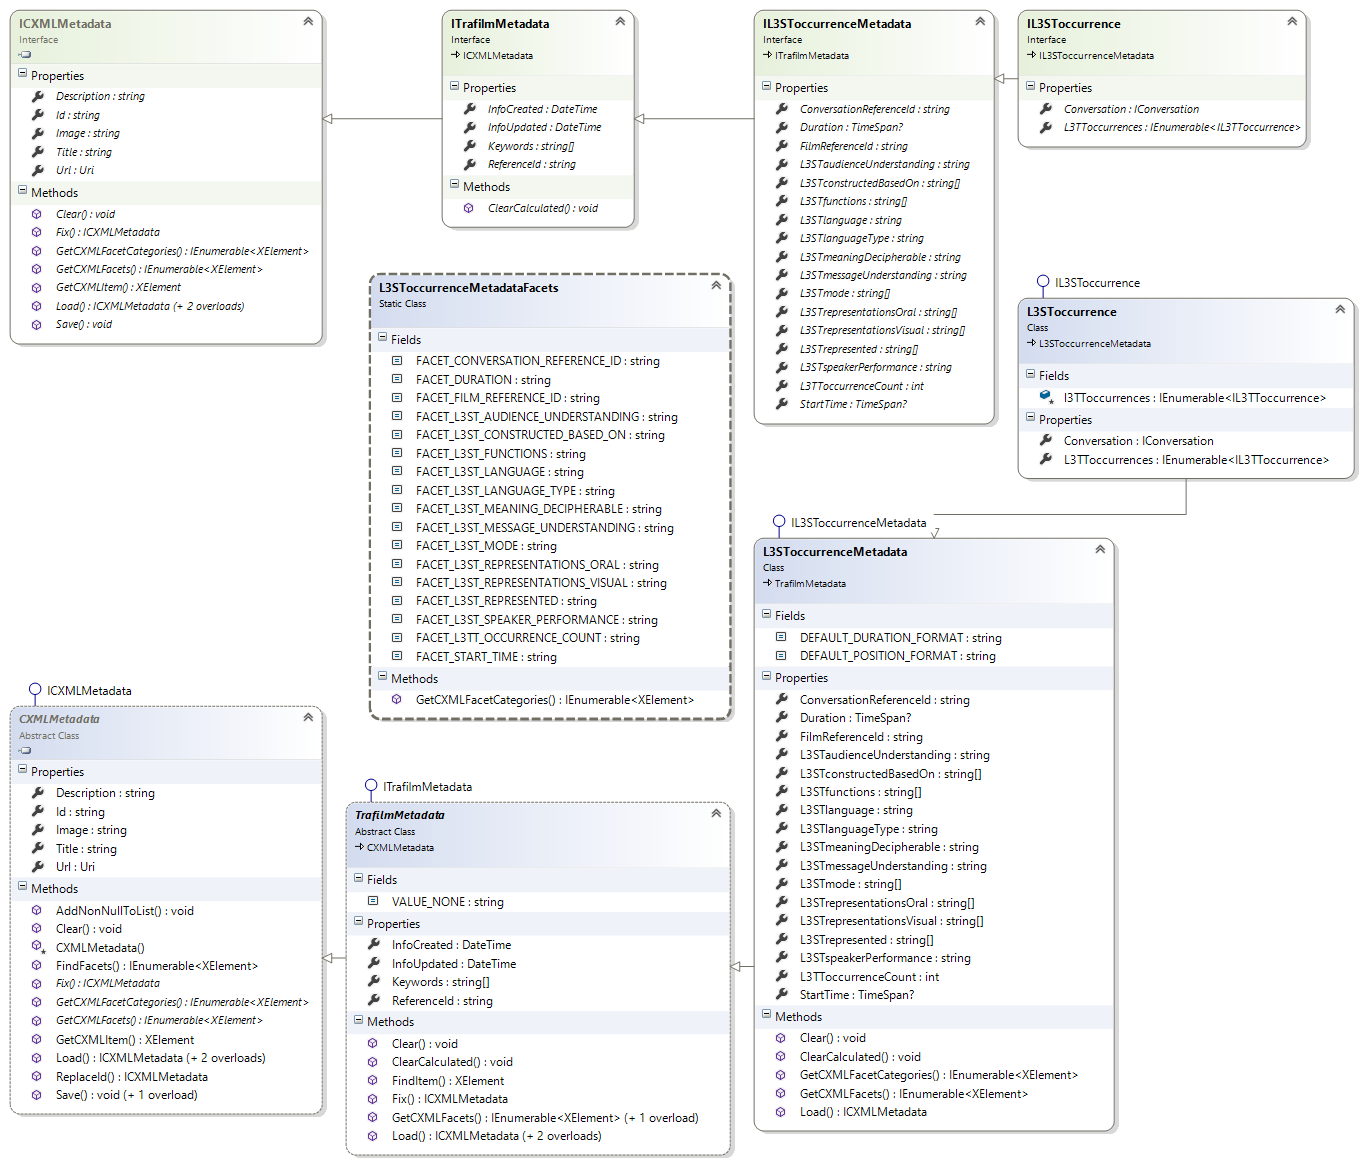
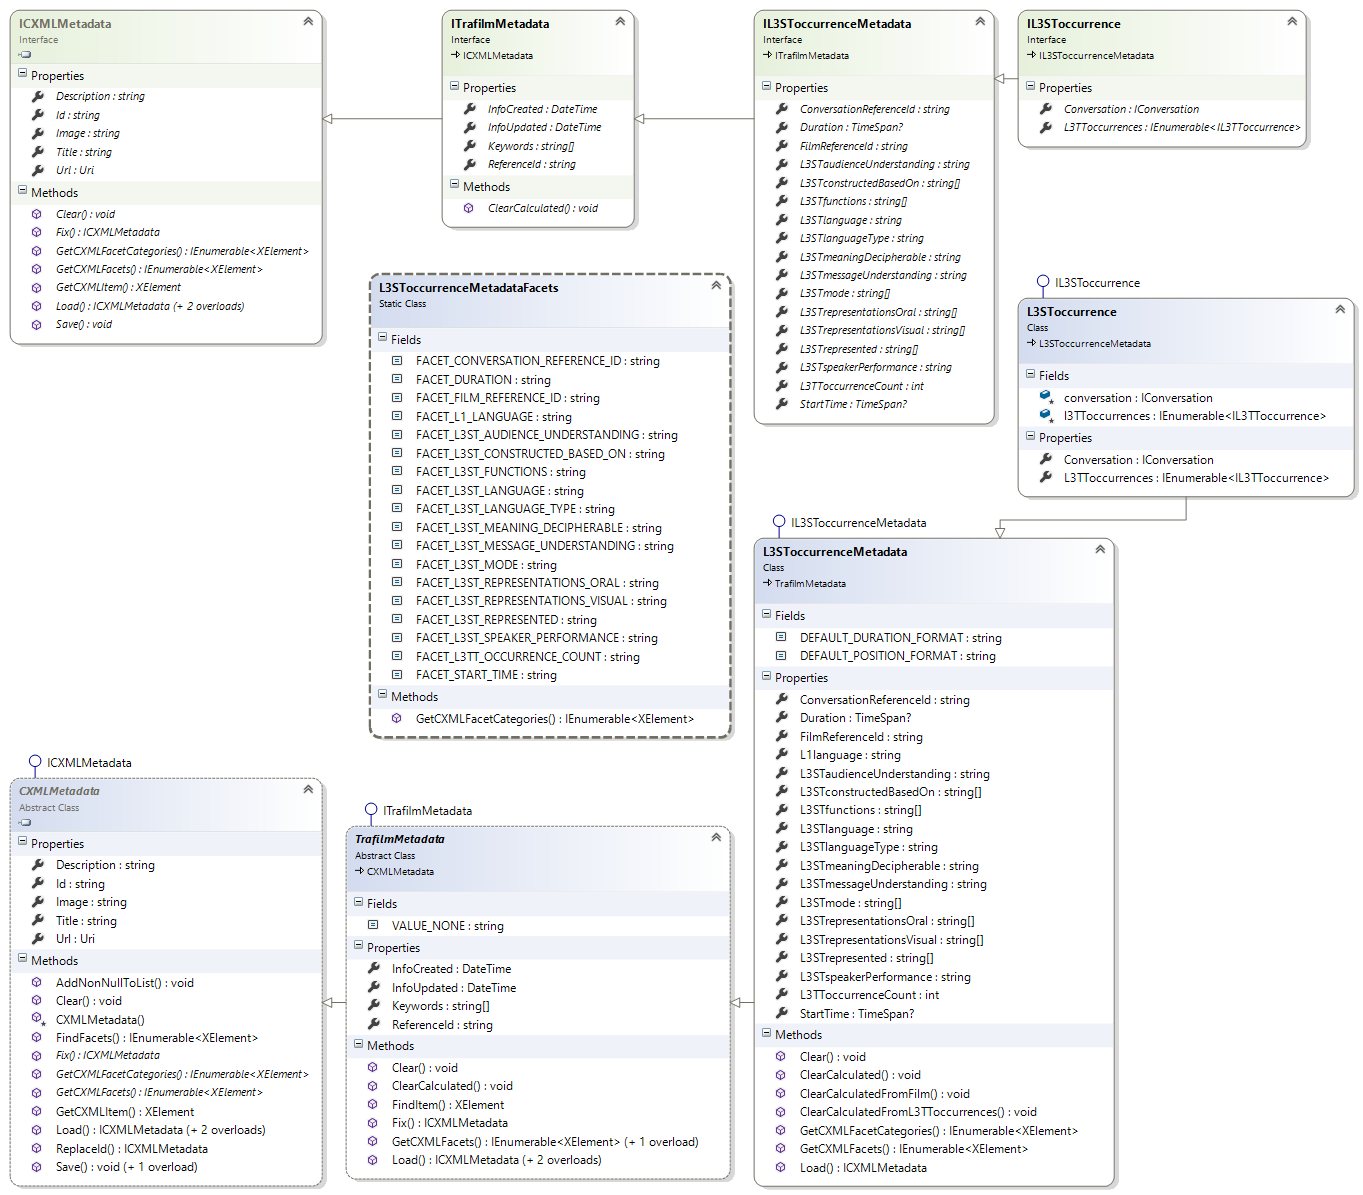
- Added and calculating (from Film) L1language at L3SToccurrence - Added  and calculating L3STlanguageTypeChange (from L3SToccurrence.L3STlanguageType and L3TTlanguageType) at L3TToccurrence - Exported diagrams - Updated NuGet package version

diff --git a/Metadata/L3SToccurrence/L3SToccurrenceMetadata.cs b/Metadata/L3SToccurrence/L3SToccurrenceMetadata.cs
@@ -1,6 +1,6 @@
 //Project: Trafilm.Metadata (https://github.com/Zoomicon/Trafilm.Metadata)
 //Filename: L3SToccurrenceMetadata.cs
-//Version: 20160526
+//Version: 20160529
 
 using Metadata.CXML;
 using Trafilm.Metadata.Models;
@@ -30,6 +30,8 @@ namespace Trafilm.Metadata
 
     public TimeSpan? StartTime { get; set; }
     public TimeSpan? Duration { get; set; }
+
+    public string L1language { get; set; } //Calculatable from Film
 
     public string L3STlanguageType { get; set; } //e.g. real, constructed, variety (real dialect, slang or other)
     public string L3STlanguage { get; set; }
@@ -82,7 +84,7 @@ namespace Trafilm.Metadata
       L3STmode = new string[] { };
 
       L3STrepresented = new string[] { };
-      L3STrepresentationsOral= new string[] { };
+      L3STrepresentationsOral = new string[] { };
       L3STrepresentationsVisual = new string[] { };
 
       L3STfunctions = new string[] { };
@@ -94,6 +96,17 @@ namespace Trafilm.Metadata
     {
       base.ClearCalculated();
 
+      ClearCalculatedFromFilm();
+      ClearCalculatedFromL3TToccurrences();
+    }
+
+    public void ClearCalculatedFromFilm()
+    {
+      L1language = "";
+    }
+
+    public void ClearCalculatedFromL3TToccurrences()
+    {
       L3TToccurrenceCount = 0;
     }
 
@@ -108,6 +121,8 @@ namespace Trafilm.Metadata
 
       StartTime = facets.CXMLFacetStringValue(L3SToccurrenceMetadataFacets.FACET_START_TIME).ToNullableTimeSpan(DEFAULT_POSITION_FORMAT);
       Duration = facets.CXMLFacetStringValue(L3SToccurrenceMetadataFacets.FACET_DURATION).ToNullableTimeSpan(DEFAULT_DURATION_FORMAT);
+
+      L1language = facets.CXMLFacetStringValue(L3SToccurrenceMetadataFacets.FACET_L3ST_LANGUAGE); //Calculatable from Film
 
       L3STlanguageType = facets.CXMLFacetStringValue(L3SToccurrenceMetadataFacets.FACET_L3ST_LANGUAGE_TYPE);
       L3STlanguage = facets.CXMLFacetStringValue(L3SToccurrenceMetadataFacets.FACET_L3ST_LANGUAGE);
@@ -152,6 +167,8 @@ namespace Trafilm.Metadata
 
       AddNonNullToList(facets, CXML.MakeStringFacet(L3SToccurrenceMetadataFacets.FACET_START_TIME, StartTime.ToString(DEFAULT_POSITION_FORMAT)));
       AddNonNullToList(facets, CXML.MakeStringFacet(L3SToccurrenceMetadataFacets.FACET_DURATION, Duration.ToString(DEFAULT_DURATION_FORMAT)));
+
+      AddNonNullToList(facets, CXML.MakeStringFacet(L3SToccurrenceMetadataFacets.FACET_L1_LANGUAGE, L1language)); //Calculatable from Film
 
       AddNonNullToList(facets, CXML.MakeStringFacet(L3SToccurrenceMetadataFacets.FACET_L3ST_LANGUAGE_TYPE, L3STlanguageType));
       AddNonNullToList(facets, CXML.MakeStringFacet(L3SToccurrenceMetadataFacets.FACET_L3ST_LANGUAGE, L3STlanguage));

diff --git a/Metadata/L3SToccurrence/L3SToccurrenceMetadataFacets.cs b/Metadata/L3SToccurrence/L3SToccurrenceMetadataFacets.cs
@@ -1,6 +1,6 @@
 //Project: Trafilm.Metadata (https://github.com/Zoomicon/Trafilm.Metadata)
 //Filename: L3SToccurrenceMetadataFacets.cs
-//Version: 20160526
+//Version: 20160529
 
 using Metadata.CXML;
 using System.Collections.Generic;
@@ -20,6 +20,8 @@ namespace Trafilm.Metadata
     public const string FACET_START_TIME = "Start time (h:m:s.f)";
     public const string FACET_DURATION = "Duration (h:m:s.f)";
 
+    public const string FACET_L1_LANGUAGE = "L1 language"; //Calculatable from Film
+
     public const string FACET_L3ST_LANGUAGE_TYPE = "L3ST language type"; //e.g. real, constructed, variety (real dialect, slang or other)
     public const string FACET_L3ST_LANGUAGE = "L3ST language";
 
@@ -34,8 +36,8 @@ namespace Trafilm.Metadata
     public const string FACET_L3ST_MODE = "L3ST mode";
 
     public const string FACET_L3ST_REPRESENTED = "L3ST represented";
-    public const string FACET_L3ST_REPRESENTATIONS_ORAL = "L3ST oral representations";
-    public const string FACET_L3ST_REPRESENTATIONS_VISUAL = "L3ST visual representations";
+    public const string FACET_L3ST_REPRESENTATIONS_ORAL = "L3ST represented: oral";
+    public const string FACET_L3ST_REPRESENTATIONS_VISUAL = "L3ST represented: visual";
 
     public const string FACET_L3ST_FUNCTIONS = "L3ST functions";
 
@@ -60,6 +62,8 @@ namespace Trafilm.Metadata
 
       result.Add(CXML.MakeFacetCategory(L3SToccurrenceMetadataFacets.FACET_START_TIME, CXML.VALUE_STRING, null, isFilterVisible: true, isMetadataVisible: true, isWordWheelVisible: false));
       result.Add(CXML.MakeFacetCategory(L3SToccurrenceMetadataFacets.FACET_DURATION, CXML.VALUE_STRING, null, isFilterVisible: true, isMetadataVisible: true, isWordWheelVisible: false));
+
+      result.Add(CXML.MakeFacetCategory(L3SToccurrenceMetadataFacets.FACET_L1_LANGUAGE, CXML.VALUE_STRING, null, isFilterVisible: true, isMetadataVisible: true, isWordWheelVisible: true)); //Calculatable from Film
 
       result.Add(CXML.MakeFacetCategory(L3SToccurrenceMetadataFacets.FACET_L3ST_LANGUAGE_TYPE, CXML.VALUE_STRING, null, isFilterVisible: true, isMetadataVisible: true, isWordWheelVisible: true));
       result.Add(CXML.MakeFacetCategory(L3SToccurrenceMetadataFacets.FACET_L3ST_LANGUAGE, CXML.VALUE_STRING, null, isFilterVisible: true, isMetadataVisible: true, isWordWheelVisible: true));

diff --git a/Metadata/L3TToccurrence/L3TToccurrenceMetadataFacets.cs b/Metadata/L3TToccurrence/L3TToccurrenceMetadataFacets.cs
@@ -1,6 +1,6 @@
 //Project: Trafilm.Metadata (https://github.com/Zoomicon/Trafilm.Metadata)
 //Filename: L3TToccurrenceMetadataFacets.cs
-//Version: 20160527
+//Version: 20160529
 
 using Metadata.CXML;
 using System.Collections.Generic;
@@ -39,13 +39,14 @@ namespace Trafilm.Metadata
     public const string FACET_L3TT_MODE = "L3TT mode";
 
     public const string FACET_L3TT_REPRESENTED = "L3TT represented";
-    public const string FACET_L3TT_REPRESENTATIONS_ORAL = "L3TT oral representations";
-    public const string FACET_L3TT_REPRESENTATIONS_VISUAL = "L3TT visual representations";
+    public const string FACET_L3TT_REPRESENTATIONS_ORAL = "L3TT represented: oral";
+    public const string FACET_L3TT_REPRESENTATIONS_VISUAL = "L3TT represented: visual";
 
     public const string FACET_L3TT_FUNCTIONS = "L3TT functions";
 
     //Calculatable from L3SToccurrence//
 
+    public const string FACET_L3ST_LANGUAGE_TYPE_CHANGE = "L3ST language type change";
     public const string FACET_L3ST_MODE_CHANGE = "L3ST mode change";
     public const string FACET_L3ST_FUNCTIONS_CHANGE = "L3ST functions change";
 
@@ -93,6 +94,7 @@ namespace Trafilm.Metadata
 
       //Calculatable from L3SToccurrence//
 
+      result.Add(CXML.MakeFacetCategory(L3TToccurrenceMetadataFacets.FACET_L3ST_LANGUAGE_TYPE_CHANGE, CXML.VALUE_STRING, null, isFilterVisible: true, isMetadataVisible: true, isWordWheelVisible: true));
       result.Add(CXML.MakeFacetCategory(L3TToccurrenceMetadataFacets.FACET_L3ST_MODE_CHANGE, CXML.VALUE_STRING, null, isFilterVisible: true, isMetadataVisible: true, isWordWheelVisible: true));
       result.Add(CXML.MakeFacetCategory(L3TToccurrenceMetadataFacets.FACET_L3ST_FUNCTIONS_CHANGE, CXML.VALUE_STRING, null, isFilterVisible: true, isMetadataVisible: true, isWordWheelVisible: true));
 

diff --git a/Metadata/L3TToccurrence/L3TToccurrenceMetadata.cs b/Metadata/L3TToccurrence/L3TToccurrenceMetadata.cs
@@ -1,6 +1,6 @@
 //Project: Trafilm.Metadata (https://github.com/Zoomicon/Trafilm.Metadata)
 //Filename: L3TToccurrenceMetadata.cs
-//Version: 20160527
+//Version: 20160529
 
 using Metadata.CXML;
 using Trafilm.Metadata.Models;
@@ -48,6 +48,7 @@ namespace Trafilm.Metadata
 
     //Calculatable from L3SToccurrence//
 
+    public string L3STlanguageTypeChange { get; set; }
     public string[] L3STmodeChange { get; set; }
     public string[] L3STfunctionsChange { get; set; }
 
@@ -96,6 +97,7 @@ namespace Trafilm.Metadata
     {
       base.ClearCalculated();
 
+      L3STlanguageTypeChange = "";
       L3STmodeChange = new string[] { };
       L3STfunctionsChange = new string[] { };
     }
@@ -138,6 +140,7 @@ namespace Trafilm.Metadata
 
       //Calculatable from L3SToccurrence//
 
+      L3STlanguageTypeChange = facets.CXMLFacetStringValue(L3TToccurrenceMetadataFacets.FACET_L3ST_LANGUAGE_TYPE_CHANGE);
       L3STmodeChange = facets.CXMLFacetStringValues(L3TToccurrenceMetadataFacets.FACET_L3ST_MODE_CHANGE); 
       L3STfunctionsChange = facets.CXMLFacetStringValues(L3TToccurrenceMetadataFacets.FACET_L3ST_FUNCTIONS_CHANGE);
 
@@ -188,6 +191,7 @@ namespace Trafilm.Metadata
 
       //Calculatable from L3SToccurrence//
 
+      AddNonNullToList(facets, CXML.MakeStringFacet(L3TToccurrenceMetadataFacets.FACET_L3ST_LANGUAGE_TYPE_CHANGE, L3STlanguageTypeChange));
       AddNonNullToList(facets, CXML.MakeStringFacet(L3TToccurrenceMetadataFacets.FACET_L3ST_MODE_CHANGE, L3STmodeChange));
       AddNonNullToList(facets, CXML.MakeStringFacet(L3TToccurrenceMetadataFacets.FACET_L3ST_FUNCTIONS_CHANGE, L3STfunctionsChange));
 

diff --git a/LinkedData/L3SToccurence/L3SToccurrence.cs b/LinkedData/L3SToccurence/L3SToccurrence.cs
@@ -1,6 +1,6 @@
 //Project: Trafilm.Metadata (https://github.com/Zoomicon/Trafilm.Metadata)
 //Filename: L3SToccurrence.cs
-//Version: 20160526
+//Version: 20160529
 
 using System.Collections.Generic;
 using System.Linq;
@@ -14,13 +14,34 @@ namespace Trafilm.Metadata
 
     #region --- Fields ---
 
+    protected IConversation conversation; //=null
     protected IEnumerable<IL3TToccurrence> l3TToccurrences; //=null
 
     #endregion
 
     #region --- Properties ---
 
-    public IConversation Conversation { get; set; }
+    public IConversation Conversation
+    {
+      get
+      {
+        return Conversation;
+      }
+      set
+      {
+        conversation = value;
+
+        //Calculated from Film//
+
+        if ((value != null) && (value.Film != null))
+        {
+          L1language = value.Film.L1language;
+          //...
+        }
+        else
+          ClearCalculatedFromFilm(); //con't call ClearCalculated() here, since we also calculate facet values at "L3TToccurrences" property
+      }
+    }
 
     public IEnumerable<IL3TToccurrence> L3TToccurrences
     {
@@ -32,16 +53,15 @@ namespace Trafilm.Metadata
       {
         l3TToccurrences = value;
 
-        //Calculated from L3SToccurrences//
+        //Calculated from L3TToccurrences//
 
         if (value != null)
         {
           L3TToccurrenceCount = value.Count();
-
           //...
         }
         else
-          ClearCalculated();
+          ClearCalculatedFromL3TToccurrences(); //con't call ClearCalculated() here, since we also calculate facet values at "Conversation" property
       }
     }
 

diff --git a/LinkedData/L3TToccurrence/L3TToccurrence.cs b/LinkedData/L3TToccurrence/L3TToccurrence.cs
@@ -1,6 +1,6 @@
 //Project: Trafilm.Metadata (https://github.com/Zoomicon/Trafilm.Metadata)
 //Filename: L3TToccurrence.cs
-//Version: 20160527
+//Version: 20160529
 
 using Trafilm.Metadata.Models;
 using Trafilm.Metadata.Utils;
@@ -33,6 +33,7 @@ namespace Trafilm.Metadata
 
         if (value != null)
         {
+          L3STlanguageTypeChange = Diff.GetDifference(value.L3STlanguageType, L3TTlanguageType);
           L3STmodeChange = Diff.GetDifferences(value.L3STmode, L3TTmode);
           L3STfunctionsChange = Diff.GetDifferences(value.L3STfunctions, L3TTfunctions);
           //...

diff --git a/Metadata/L3TToccurrence/IL3TToccurrenceMetadata.cs b/Metadata/L3TToccurrence/IL3TToccurrenceMetadata.cs
@@ -1,6 +1,6 @@
 //Project: Trafilm.Metadata (https://github.com/Zoomicon/Trafilm.Metadata)
 //Filename: IL3TToccurrenceMetadata.cs
-//Version: 20160525
+//Version: 20160529
 
 using System;
 
@@ -44,6 +44,7 @@ namespace Trafilm.Metadata.Models
 
     //Calculatable from L3SToccurrence//
 
+    string L3STlanguageTypeChange { get; set; }
     string[] L3STmodeChange { get; set;  }
     string[] L3STfunctionsChange { get; set; }
 

diff --git a/Metadata/L3SToccurrence/IL3SToccurrenceMetadata.cs b/Metadata/L3SToccurrence/IL3SToccurrenceMetadata.cs
@@ -1,6 +1,6 @@
 //Project: Trafilm.Metadata (https://github.com/Zoomicon/Trafilm.Metadata)
 //Filename: IL3SToccurrenceMetadata.cs
-//Version: 20160526
+//Version: 20160529
 
 using System;
 
